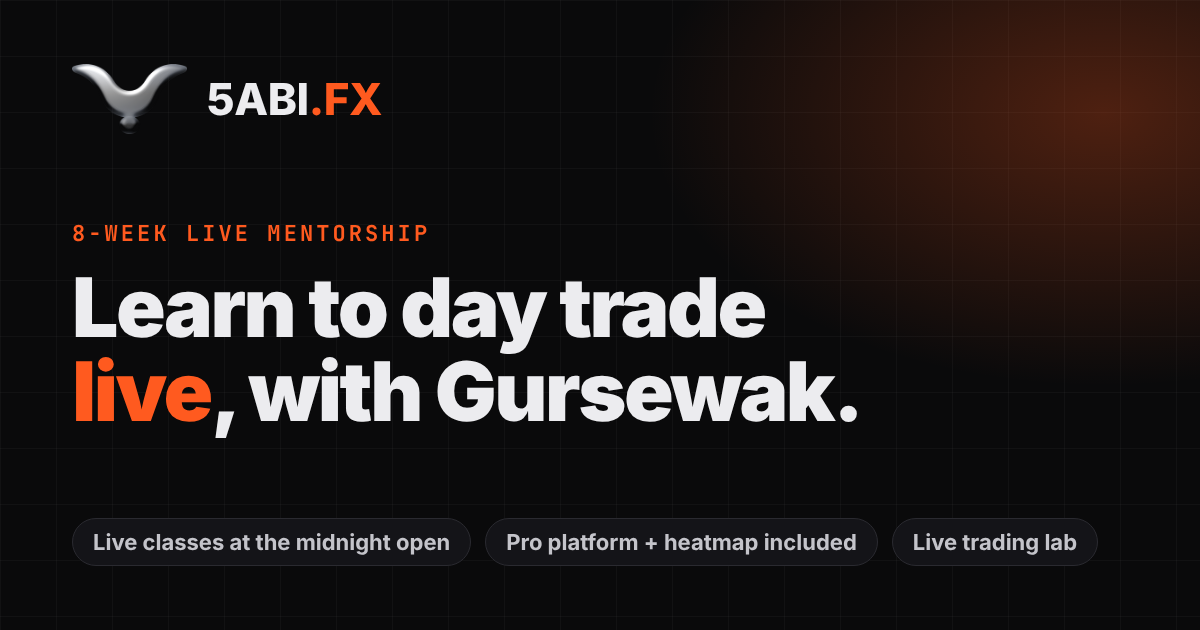
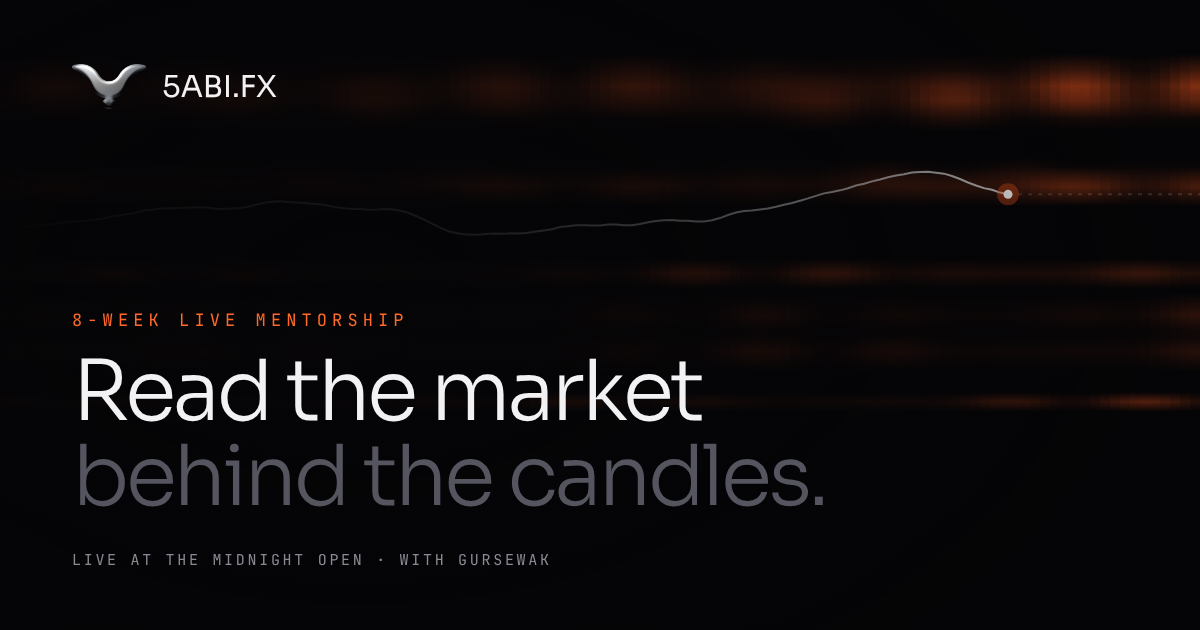
Link previews in the new cinematic theme
New og.png and og-mentorship.png (black, light Sora headline, heatmap bands, live price line)
and ?v=3 so Discord, WhatsApp and iMessage fetch the new images.

Claude-Session: https://claude.ai/code/session_012JB55UpHMPKHdg1D13GMfd

diff --git a/test/smoke.js b/test/smoke.js
@@ -173,8 +173,8 @@ function client(base) {
     r = await anon.get('/no-such-page');
     assert.strictEqual(r.status, 404);
     assert.match(r.text, /doesn&#39;t exist|doesn't exist/);
-    assert.match((await anon.get('/')).text, /property="og:image" content="http:\/\/127\.0\.0\.1:\d+\/og\.png\?v=2"/);
-    assert.match((await anon.get('/mentorship')).text, /property="og:image" content="[^"]+\/og-mentorship\.png\?v=2"/);
+    assert.match((await anon.get('/')).text, /property="og:image" content="http:\/\/127\.0\.0\.1:\d+\/og\.png\?v=3"/);
+    assert.match((await anon.get('/mentorship')).text, /property="og:image" content="[^"]+\/og-mentorship\.png\?v=3"/);
     assert.match((await fetch(base + '/robots.txt').then((x) => x.text())), /Disallow: \//);
 
     // Sign in with Google: fake token endpoint returns an ID token for a verified Gmail address

diff --git a/src/views.js b/src/views.js
@@ -79,7 +79,7 @@ function layout(req, title, body, opts = {}) {
 <meta property="og:title" content="${esc(og.title || `${SITE_NAME} · Your rules. Enforced on every trade.`)}">
 <meta property="og:description" content="${esc(og.desc || desc)}">
 <meta property="og:url" content="${esc(origin + req.path)}">
-<meta property="og:image" content="${esc(origin)}/${og.image || 'og.png'}?v=2">
+<meta property="og:image" content="${esc(origin)}/${og.image || 'og.png'}?v=3">
 <meta property="og:image:width" content="1200"><meta property="og:image:height" content="630">
 <meta name="twitter:card" content="summary_large_image">
 <link rel="icon" href="/favicon.png" type="image/png"><link rel="apple-touch-icon" href="/apple-touch-icon.png">

diff --git a/src/cine.js b/src/cine.js
@@ -40,7 +40,7 @@ function cinePage(req, name, slots, opts = {}) {
 <meta property="og:title" content="${esc(og.title || `${SITE_NAME} · Your rules. Enforced on every trade.`)}">
 <meta property="og:description" content="${esc(desc)}">
 <meta property="og:url" content="${esc(origin + req.path)}">
-<meta property="og:image" content="${esc(origin)}/${og.image || 'og.png'}?v=2">
+<meta property="og:image" content="${esc(origin)}/${og.image || 'og.png'}?v=3">
 <meta property="og:image:width" content="1200"><meta property="og:image:height" content="630">
 <meta name="twitter:card" content="summary_large_image">
 <link rel="icon" href="/favicon.png" type="image/png"><link rel="apple-touch-icon" href="/apple-touch-icon.png">
